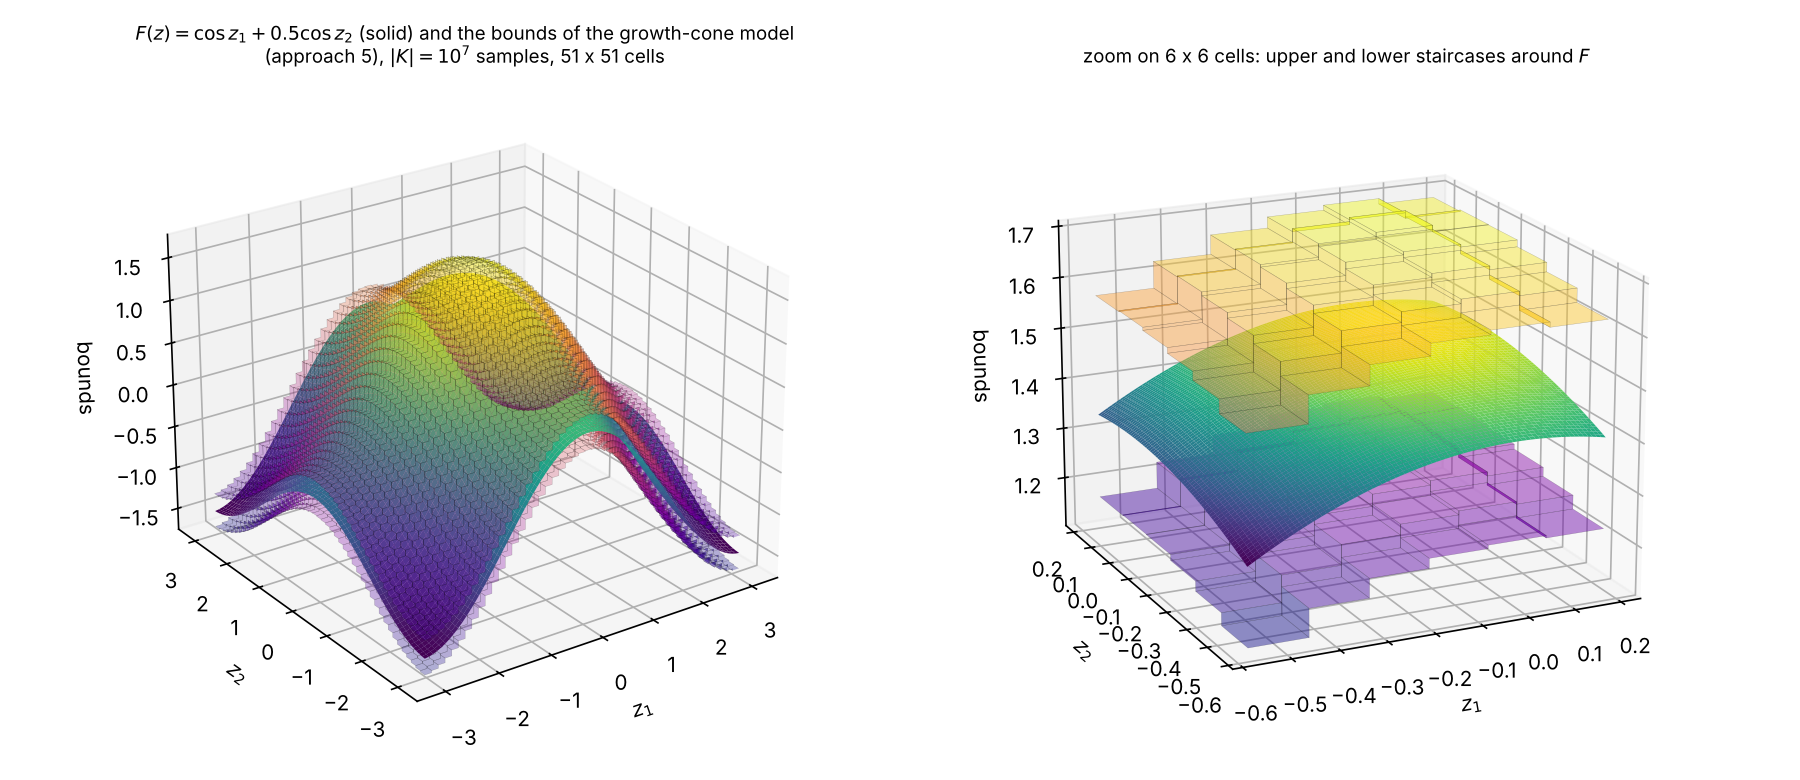
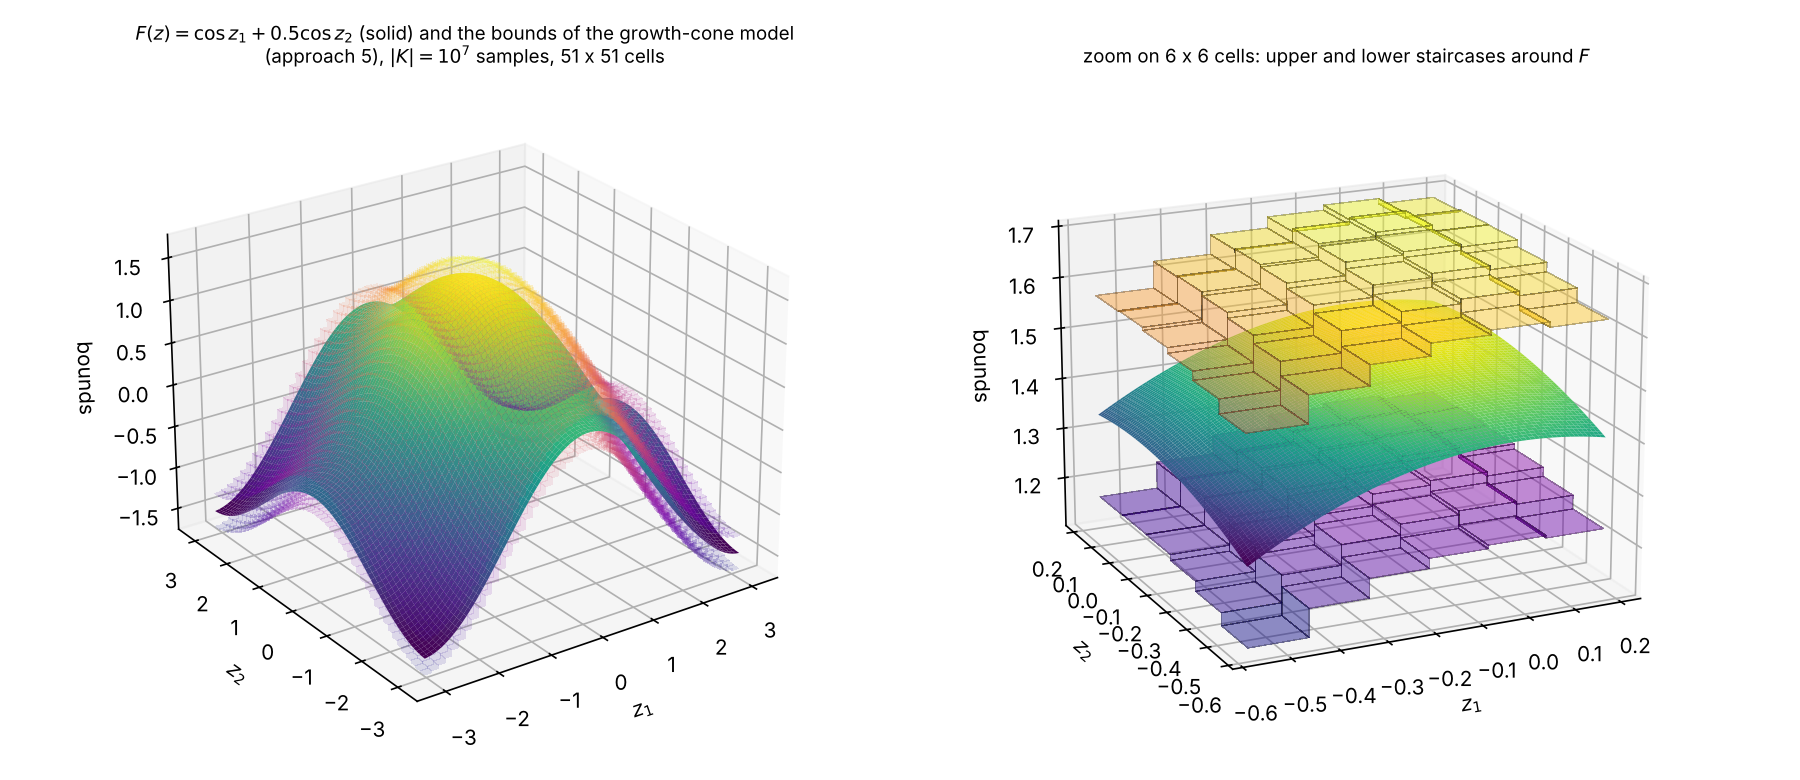
Staircase plots: no cell outlines on dense grids, lighter bounds in the full view so F reads as solid

diff --git a/src/ddma/plotting.py b/src/ddma/plotting.py
@@ -33,7 +33,7 @@ def _staircase_grid(edges, values):
 
 def plot_staircase_bounds(sigma, output=0, ax=None, true_fn=None, trim=1, clip=None,
                           alpha=0.3, cmap="viridis", bound_color="0.25",
-                          bound_cmap="plasma", region=None):
+                          bound_cmap="plasma", region=None, cell_edges="auto"):
     """Transparent staircase upper/lower bounds of a 2-D-input simulating map.
 
     sigma : PartitionedSimulatingMap with two inputs. ``trim`` outer cells are dropped on
@@ -42,6 +42,8 @@ def plot_staircase_bounds(sigma, output=0, ax=None, true_fn=None, trim=1, clip=N
     The bounds are transparent, coloured by height with ``bound_cmap`` (or plain
     ``bound_color`` if ``bound_cmap=None``). ``region=(i0, i1, j0, j1)`` zooms on the
     cells i0 <= i < i1, j0 <= j < j1 (after trimming), where the steps are visible.
+    ``cell_edges``: draw the cell outlines on the bounds (True / False); "auto" draws them
+    only up to 30 cells per axis, since on dense grids they cover the true function.
     """
     import matplotlib.pyplot as plt
 
@@ -66,19 +68,22 @@ def plot_staircase_bounds(sigma, output=0, ax=None, true_fn=None, trim=1, clip=N
         GZ = np.asarray(true_fn(np.stack([GX.ravel(), GY.ravel()], 1))).reshape(GX.shape)
         ax.plot_surface(GX, GY, GZ, cmap=cmap, linewidth=0, antialiased=True, alpha=1.0,
                         rstride=1, cstride=1)
+    if cell_edges == "auto":
+        cell_edges = max(lo.shape) <= 30
+    lw, ec = (0.2, (0, 0, 0, 0.25)) if cell_edges else (0.0, (0, 0, 0, 0))
     cm = plt.get_cmap(bound_cmap)
     zmin = np.nanmin(lo[np.isfinite(lo)]) if np.isfinite(lo).any() else 0.0
     zmax = np.nanmax(hi[np.isfinite(hi)]) if np.isfinite(hi).any() else 1.0
     for vals in (lo, hi):
         X, Y, Z = _staircase_grid(edges, vals)
         if bound_cmap is None:
-            ax.plot_surface(X, Y, Z, color=bound_color, alpha=alpha, linewidth=0.2,
-                            edgecolor=(0, 0, 0, 0.3), shade=False)
+            ax.plot_surface(X, Y, Z, color=bound_color, alpha=alpha, linewidth=lw,
+                            edgecolor=ec, shade=False)
         else:
             fc = cm((Z - zmin) / max(zmax - zmin, 1e-12))
             fc[..., 3] = alpha
-            ax.plot_surface(X, Y, Z, facecolors=fc, linewidth=0.2,
-                            edgecolor=(0, 0, 0, 0.25), shade=False)
+            ax.plot_surface(X, Y, Z, facecolors=fc, linewidth=lw, edgecolor=ec, shade=False,
+                            antialiased=False)
     return ax
 
 

diff --git a/reproductions/thesis_ch3.py b/reproductions/thesis_ch3.py
@@ -171,7 +171,7 @@ def staircase_figure(P, lo, hi, max_exp, out):
     m = SimpleNamespace(partition=P, lower=lo[..., None], upper=hi[..., None])
     fig = plt.figure(figsize=(12, 5.2))
     ax = fig.add_subplot(1, 2, 1, projection="3d")
-    plot_staircase_bounds(m, ax=ax, true_fn=F, trim=1)
+    plot_staircase_bounds(m, ax=ax, true_fn=F, trim=1, alpha=0.12)
     ax.set(xlabel="$z_1$", ylabel="$z_2$", zlabel="bounds")
     ax.view_init(25, -125)
     ax.set_title(f"$F(z) = \\cos z_1 + 0.5\\cos z_2$ (solid) and the bounds of the growth-cone "
